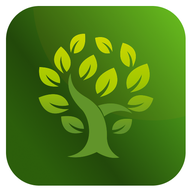
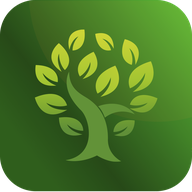
fix: corrigido manifest

diff --git a/src/features/cliente/mobile/screens/SplashScreen.tsx b/src/features/cliente/mobile/screens/SplashScreen.tsx
@@ -1,6 +1,6 @@
 "use client";
 
-import { useState } from "react";
+import { useCallback, useEffect, useState } from "react";
 import Image from "next/image";
 
 const SLIDES = [
@@ -26,7 +26,44 @@ type Props = {
 };
 
 export default function SplashScreen({ onComplete }: Props) {
+  const [phase, setPhase] = useState<"splash" | "carousel">("splash");
   const [slideIndex, setSlideIndex] = useState(0);
+
+  const goToCarousel = useCallback(() => setPhase("carousel"), []);
+
+  useEffect(() => {
+    if (phase !== "splash") return;
+    const t = setTimeout(goToCarousel, 2200);
+    return () => clearTimeout(t);
+  }, [phase, goToCarousel]);
+
+  if (phase === "splash") {
+    return (
+      <div
+        className="cm-splash-root"
+        onClick={goToCarousel}
+        onKeyDown={(e) => {
+          if (e.key === "Enter" || e.key === " ") {
+            e.preventDefault();
+            goToCarousel();
+          }
+        }}
+        role="button"
+        tabIndex={0}
+        aria-label="Continuar"
+      >
+        <Image
+          className="cm-splash-logo"
+          src="/cliente-mobile/Camada 1.png"
+          alt="Campo do Bosque"
+          width={282}
+          height={91}
+          priority
+        />
+        <span className="cm-splash-domain">campodobosque.com.br</span>
+      </div>
+    );
+  }
 
   const slide = SLIDES[Math.min(slideIndex, SLIDES.length - 1)];
   const isLast = slideIndex >= SLIDES.length - 1;

diff --git a/src/app/styles/cliente-mobile.css b/src/app/styles/cliente-mobile.css
@@ -1708,36 +1708,17 @@
 .cm-splash-logo {
   width: 282px;
   max-width: 82vw;
-  height: auto;
+  height: 91.47px;
   object-fit: contain;
 }
 
 .cm-splash-domain {
   position: absolute;
-  bottom: 80px;
-  color: rgba(255, 255, 255, 0.85);
+  bottom: 15px;
+  color: #ffffff;
   font-size: 15px;
   font-weight: 600;
   letter-spacing: -0.4px;
-}
-
-@media (prefers-color-scheme: light) {
-  .cm-loading,
-  .cm-splash-root {
-    background: #ffffff;
-  }
-
-  .cm-splash-domain {
-    color: #1e5a14;
-  }
-
-  .cm-logo-dark {
-    display: none !important;
-  }
-
-  .cm-logo-light {
-    display: block !important;
-  }
 }
 
 /* ===================================================================

diff --git a/src/features/cliente/mobile/ClienteMobilePage.tsx b/src/features/cliente/mobile/ClienteMobilePage.tsx
@@ -5,6 +5,7 @@ import "@/app/styles/cliente-mobile.css";
 import { useCallback, useEffect, useMemo, useRef, useState } from "react";
 import Image from "next/image";
 import { useQuery } from "@tanstack/react-query";
+import { Loader2 } from "lucide-react";
 
 import type { ClientePlano } from "@/types/ClientePlano";
 import { mapTitularToCarteirinha } from "@/services/clienteCarteirinha.service";
@@ -704,7 +705,11 @@ export default function ClienteMobilePage() {
      Render – Loading state
      ================================================================ */
   if (!authChecked) {
-    return <div className="cm-loading" aria-label="Carregando" />;
+    return (
+      <div className="cm-loading" aria-label="Carregando">
+        <Loader2 size={32} className="cm-spinner" aria-hidden />
+      </div>
+    );
   }
 
   /* ===================================================================

diff --git a/src/app/layout.tsx b/src/app/layout.tsx
@@ -10,9 +10,9 @@ export const metadata: Metadata = {
   description: "Sistema Planvita",
   manifest: "/manifest.webmanifest",
   icons: {
-    icon: "/logo.ico",
-    shortcut: "/logo.ico",
-    apple: "/logo.png",
+    icon: "/cliente-mobile/Icone app.png",
+    shortcut: "/cliente-mobile/Icone app.png",
+    apple: "/cliente-mobile/Icone app.png",
   },
 };
 

diff --git a/src/app/manifest.ts b/src/app/manifest.ts
@@ -11,14 +11,16 @@ export default function manifest(): MetadataRoute.Manifest {
     theme_color: "#3a9b28",
     icons: [
       {
-        src: "/cliente-mobile/Camada 1-192.png",
+        src: "/cliente-mobile/Icone app 192.png",
         sizes: "192x192",
         type: "image/png",
+        purpose: "maskable",
       },
       {
-        src: "/cliente-mobile/Camada 1-512.png",
+        src: "/cliente-mobile/Icone app.png",
         sizes: "512x512",
         type: "image/png",
+        purpose: "maskable",
       },
     ],
   };